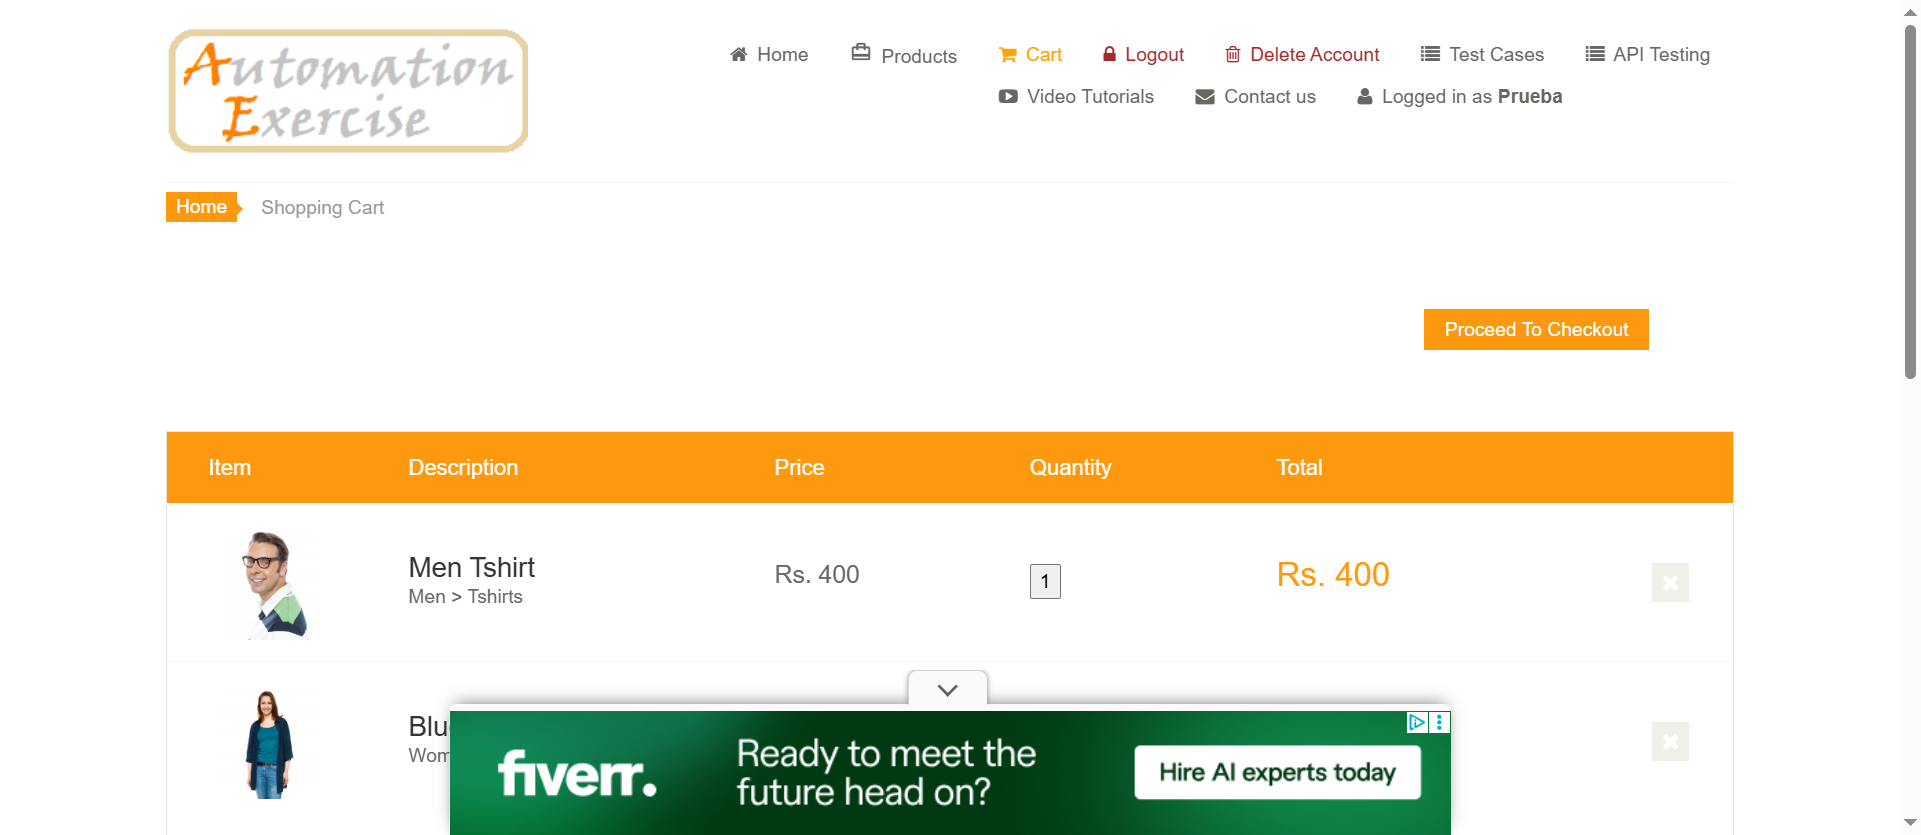
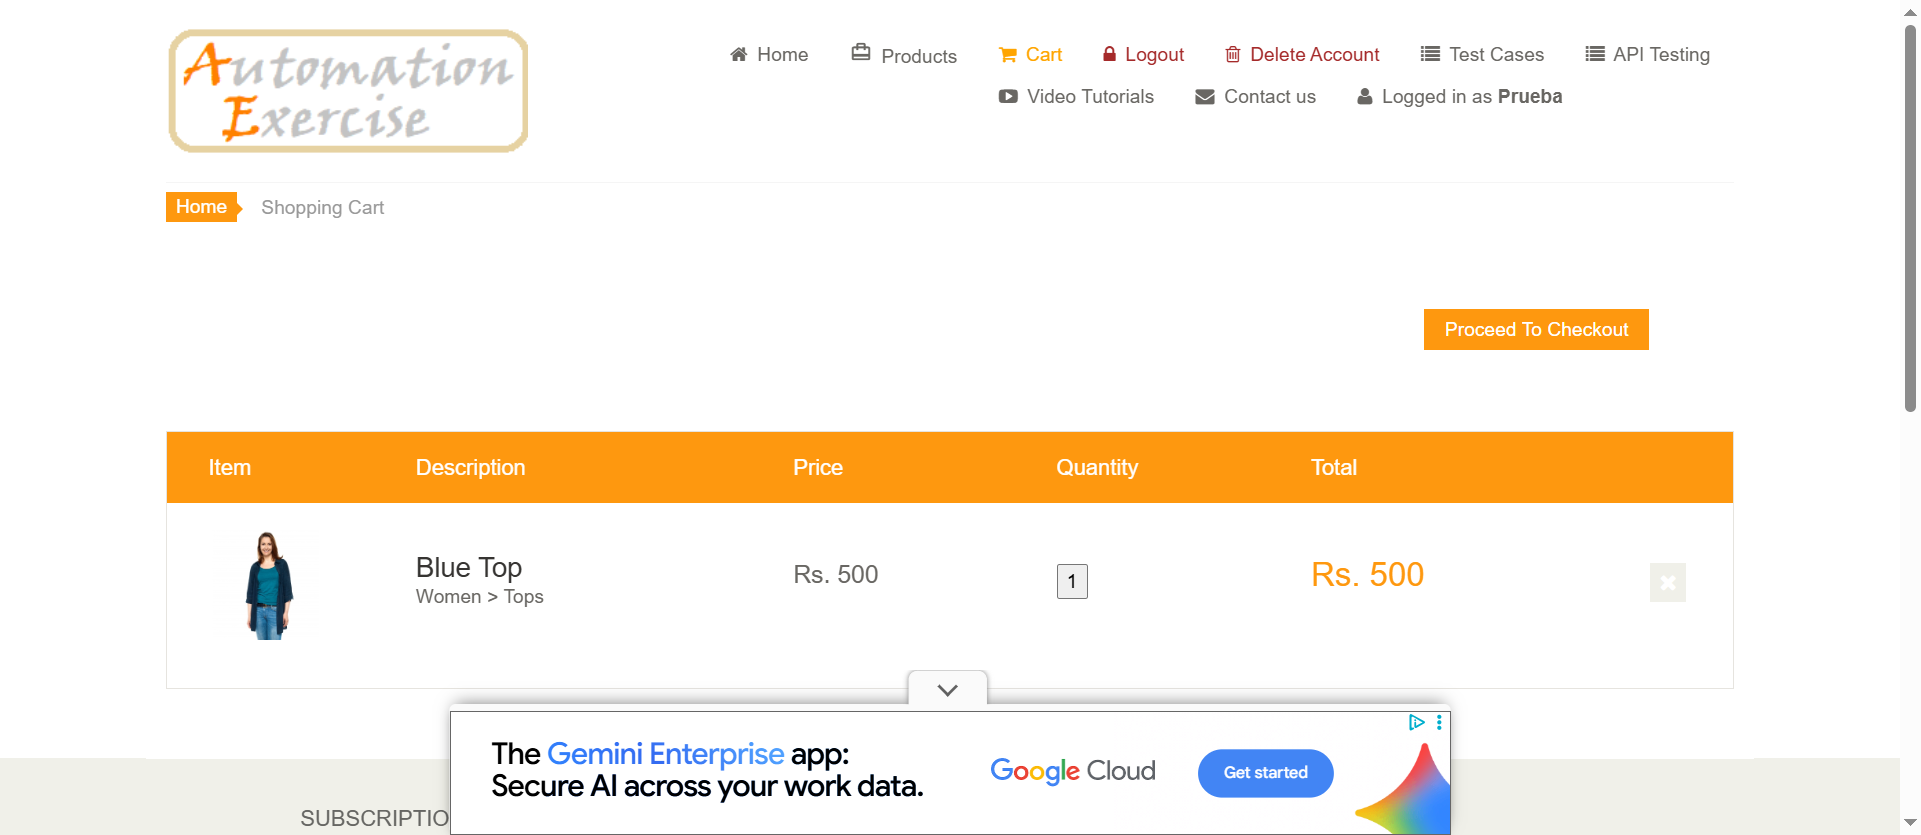
Fix failing Selenium tests

diff --git a/test-output/TestReport.html b/test-output/TestReport.html
@@ -35,7 +35,7 @@
 <a href="#"><span class="badge badge-primary">QA Automation Framework Report</span></a>
 </li>
 <li class="m-r-10">
-<a href="#"><span class="badge badge-primary">jul 22, 2026 01:10:23 p. m.</span></a>
+<a href="#"><span class="badge badge-primary">jul 22, 2026 02:01:52 p. m.</span></a>
 </li>
 </ul>
 </div>
@@ -79,9 +79,9 @@
           tag=""
           device="">
           <div class="test-detail">
-            <p class="name">testLogInToTheAccount()</p>
+            <p class="name">testSendContactFormSuccessfully()</p>
             <p class="text-sm">
-              <span>13:10:24</span> / <span>00:00:18:839</span>
+              <span>14:01:53</span> / <span>00:00:19:643</span>
               <span class="badge pass-bg log float-right">Pass</span>
             </p>
           </div>
@@ -89,10 +89,10 @@
 <div class="detail-head">
 <div class="p-v-10">
 <div class="info">
-<h5 class="test-status text-pass">testLogInToTheAccount()</h5>
-<span class='badge badge-success'>07.22.2026 13:10:24</span>
-<span class='badge badge-danger'>07.22.2026 13:10:42</span>
-<span class='badge badge-default'>00:00:18:839</span>
+<h5 class="test-status text-pass">testSendContactFormSuccessfully()</h5>
+<span class='badge badge-success'>07.22.2026 14:01:53</span>
+<span class='badge badge-danger'>07.22.2026 14:02:12</span>
+<span class='badge badge-default'>00:00:19:643</span>
 &middot; <span class='uri-anchor badge badge-default'>#test-id=1</span>
 <span class='badge badge-default pointer float-right ml-1 et'><i class="fa fa-chevron-down"></i></span>
 <span class='badge badge-default pointer float-right ct'><i class="fa fa-chevron-up"></i></span>
@@ -104,16 +104,23 @@
   <tbody>
       <tr class="event-row">
         <td><span class="badge log info-bg">Info</span></td>
-        <td>13:10:39</td>
+        <td>14:02:01</td>
         <td>
-          Starting login test
+          Starting contact form test
         </td>
       </tr>
       <tr class="event-row">
         <td><span class="badge log info-bg">Info</span></td>
-        <td>13:10:42</td>
+        <td>14:02:11</td>
         <td>
-          Validating successful login test
+          Filling up the contact form
+        </td>
+      </tr>
+      <tr class="event-row">
+        <td><span class="badge log info-bg">Info</span></td>
+        <td>14:02:12</td>
+        <td>
+          Validating contact form submission
         </td>
       </tr>
   </tbody>
@@ -135,13 +142,13 @@
 <div class="col-md-3">
 <div class="card"><div class="card-body">
 <p class="m-b-0">Started</p>
-<h3>jul 22, 2026 01:10:23 p. m.</h3>
+<h3>jul 22, 2026 02:01:52 p. m.</h3>
 </div></div>
 </div>
 <div class="col-md-3">
 <div class="card"><div class="card-body">
 <p class="m-b-0">Ended</p>
-<h3>jul 22, 2026 01:10:46 p. m.</h3>
+<h3>jul 22, 2026 02:02:13 p. m.</h3>
 </div></div>
 </div>
 <div class="col-md-3">
@@ -195,7 +202,7 @@
 <div><small data-tooltip='0%'><b>0</b> events passed</small></div>
 <div>
 <small data-tooltip='0%'><b>0</b> events failed,
-<b data-tooltip='%'>2</b> others
+<b data-tooltip='%'>3</b> others
 </small>
 </div>
 </div>
@@ -211,7 +218,7 @@
 </div></div>
 <script>
 var timeline = {
-"testLogInToTheAccount()":18.839
+"testSendContactFormSuccessfully()":19.643
 };
 </script>
 <div class="row">
@@ -263,7 +270,7 @@ passEvents: 0,
 failEvents: 0,
 warningEvents: 0,
 skipEvents: 0,
-infoEvents: 2
+infoEvents: 3
 };
 </script>        </div>
       </div>

diff --git a/src/test/java/com/test/automationexercise/tests/PurchaseTest.java b/src/test/java/com/test/automationexercise/tests/PurchaseTest.java
@@ -46,11 +46,11 @@ public class PurchaseTest extends BaseTest {
         productsPage.addProductToTheCart();
         userPage.goToCartTab();
 
+        cartPage.goToCheckoutPage();
+
         test.info("Validating cart total against expected total");
         Assertions.assertEquals(checkoutPage.getTotalCost(), productsPage.getExpectedTotal());
 
-
-        cartPage.goToCheckoutPage();
         checkoutPage.placeOrder();
 
         test.info("Filling payment information");

diff --git a/src/main/java/com/test/automationexercise/pages/ContactPage.java b/src/main/java/com/test/automationexercise/pages/ContactPage.java
@@ -28,7 +28,7 @@ public class ContactPage extends BasePage {
     }
 
     public void uploadDocument() {
-        String filePath = System.getProperty("user.dir") + "/src/test/resources/files/test_document.txt";
+        String filePath = System.getProperty("user.dir") + "/src/test/resources/testFiles/test_document.txt";
         type(selectFileButton, filePath);
     }
 

diff --git a/src/main/java/com/test/automationexercise/pages/ProductsPage.java b/src/main/java/com/test/automationexercise/pages/ProductsPage.java
@@ -21,6 +21,7 @@ public class ProductsPage extends BasePage {
 
     public void addProductToTheCart() {
         scrollToElement(blueTopProduct);
+        getProductPrice(productPrice);
         storeProductPrice(blueTopProduct);
         clickElement(addToCartButton);
         clickElement(continueShoppingButton);